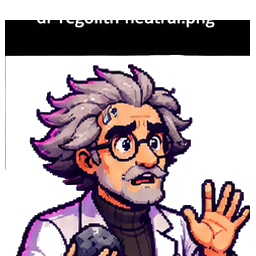
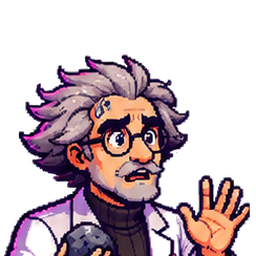
feat(game): new Dr. Regolith portraits and real lighting in the recon Street View (#100)
- Replace the doctor portraits with the new transparent set (no caption strip);
  the intro keeps one style (neutral) instead of swapping with the old talk art.
- StreetViewEmbed turns the reading (relief) light off: real lighting, so a
  site in darkness looks dark. The /streetview page is unchanged.
- The embed logs why it fell back (render error / setup failure).

diff --git a/web/src/game/ui/IntroScreen.tsx b/web/src/game/ui/IntroScreen.tsx
@@ -1,17 +1,13 @@
 /**
  * The `intro` phase, inside the lander: through the cabin window the Moon turns (the background
  * globe shows through a transparent viewport; the cabin around it is opaque), and Dr. Regolith
- * explains at the console why we go to the lunar south pole. His portrait talks while a line
- * types and rests between lines. Finishing the dialogue calls `endIntro()`; "Skip" calls
+ * explains at the console why we go to the lunar south pole. Finishing the dialogue calls `endIntro()`; "Skip" calls
  * `skipIntro()`. Both lead to the alert.
  */
-import { useState } from 'react';
 import intro from '../content/intro.json';
 import { useGame } from '../state/gameStore';
 import { DialogueBox } from './DialogueBox';
-import { scientistImage } from './assets';
 import { PixelScientist } from './PixelScientist';
-import { usePreloadImages } from './usePreloadImages';
 
 /** Cabin wall colour: the viewport's giant shadow paints it around the window. */
 const CABIN_COLOR = '#0b0f1a';
@@ -23,8 +19,6 @@ function Rivet({ className }: { className: string }) {
 export function IntroScreen() {
   const endIntro = useGame((s) => s.endIntro);
   const skipIntro = useGame((s) => s.skipIntro);
-  const [typing, setTyping] = useState(false);
-  usePreloadImages([scientistImage('talk'), scientistImage('neutral')]);
 
   return (
     <div className="relative flex flex-1 flex-col overflow-hidden">
@@ -53,16 +47,12 @@ export function IntroScreen() {
       {/* The console: the doctor and his dialogue. */}
       <div className="relative flex flex-col items-center gap-3 p-3 sm:flex-row sm:items-end sm:p-4">
         <div className="mission-bezel relative shrink-0 p-1.5">
-          <PixelScientist
-            mood={typing ? 'talk' : 'neutral'}
-            className="size-24 bg-black/60 sm:size-32"
-          />
+          <PixelScientist mood="neutral" className="size-24 bg-black/60 sm:size-32" />
         </div>
         <DialogueBox
           className="max-w-2xl min-w-0 flex-1"
           speaker={intro.speaker}
           lines={intro.lines}
-          onTypingChange={setTyping}
           onDone={() => endIntro()}
           onSkip={() => skipIntro()}
         />

diff --git a/web/src/streetview/StreetViewEmbed.tsx b/web/src/streetview/StreetViewEmbed.tsx
@@ -129,7 +129,8 @@ export default function StreetViewEmbed({
         labels: noop,
         observer: noop,
         save: noop,
-        error: () => {
+        error: (cause?: unknown) => {
+          console.warn('[streetview embed] render error', cause);
           fail('load');
           abort.abort();
         },
@@ -145,11 +146,15 @@ export default function StreetViewEmbed({
           return;
         }
         mounted = instance;
+        // Real lighting only: the reading light flattens the textures, and a site in darkness
+        // should look dark (the player must see that the Sun / Earth are not there).
+        instance.setReadingLight(false);
         scene.current = instance;
         instance.setSky(latestSample.current);
         latest.current.onReady?.();
       })
-      .catch(() => {
+      .catch((cause: unknown) => {
+        console.warn('[streetview embed] setup failed', cause);
         window.clearTimeout(timer);
         if (!abort.signal.aborted) fail('load');
       });

diff --git a/docs/team/manuelcgg165/mission-cinematic-design.md b/docs/team/manuelcgg165/mission-cinematic-design.md
@@ -55,3 +55,13 @@
   renueve, el reconocimiento usa el panorama de respaldo. `SiteRecon` ahora deja en consola el motivo
   (`[recon] 3D Street View unavailable (<motivo>)`).
 - Pendiente aparte: el token para la web pública (Vercel) restringido a esa URL.
+
+## Cierre 2026-11-15 (tarde) — validado por el usuario
+- Retratos de Dr. Regolith sustituidos por la serie nueva (fondo transparente, sin franja); en la intro el doctor usa solo
+  `neutral` (la `talk` antigua tenía otro estilo; `dr-regolith-talk.png` ahora es la misma `neutral`).
+- Street View en el juego: **sin "relief light"** (`setReadingLight(false)` en `StreetViewEmbed`). Decisión del usuario: luz real,
+  aunque de noche casi no se vea nada, para que el jugador entienda que no verá el Sol / la Tierra. La página Street View de
+  Pablo no cambia.
+- El embed deja en consola el motivo de fallo (`[streetview embed] ...`). Con la ventana del navegador oculta Cesium no pinta
+  y salta `Surface sampling timed out` → panorama de respaldo; con la ventana visible carga el 3D.
+- Siguiente: modo **Historical** con los datos de los sitios de aterrizaje históricos.
